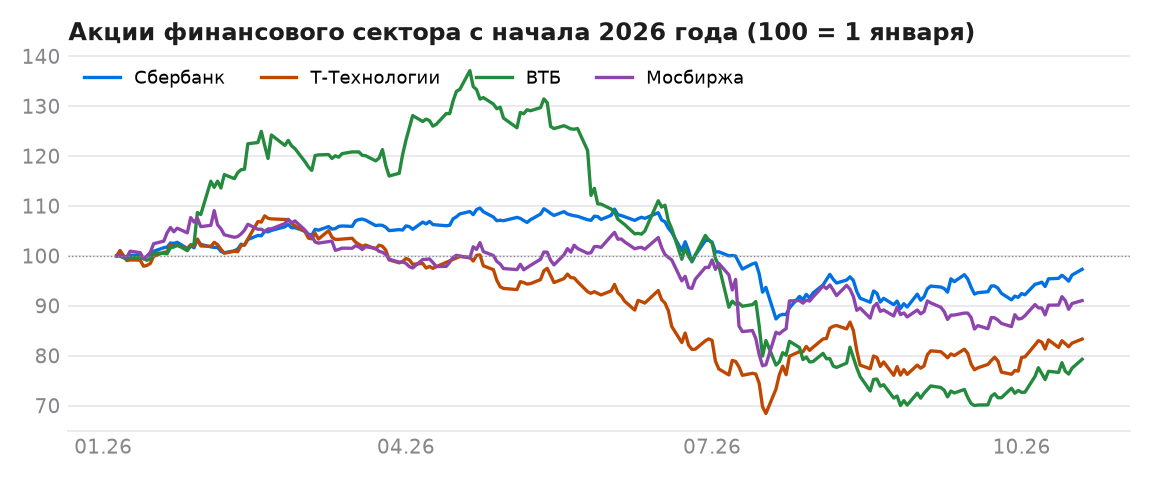
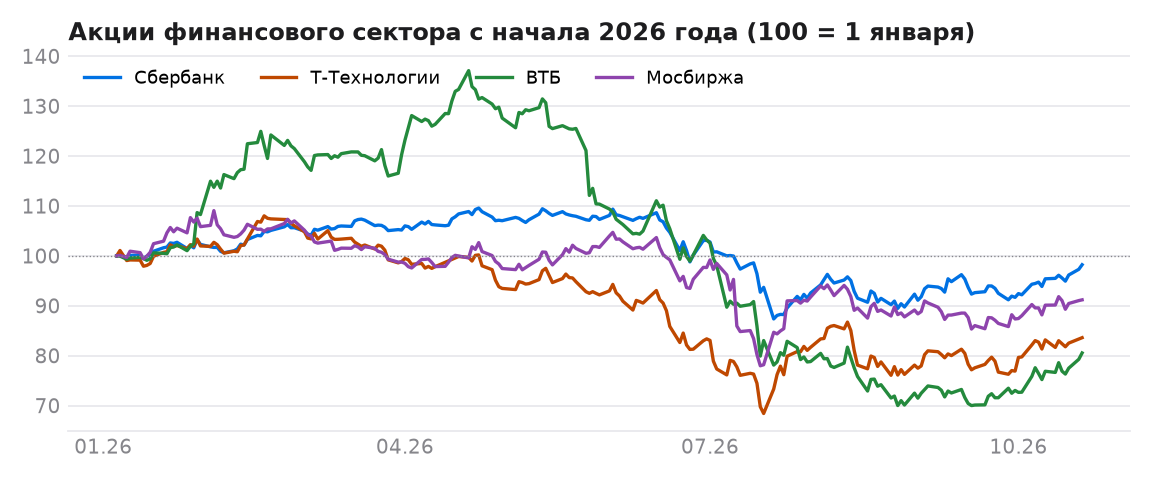
data: обновление 2026-10-20

diff --git a/README.md b/README.md
@@ -7,17 +7,17 @@
 Руками здесь ничего не обновляется: таблица и графики ниже собраны роботом.
 
 <!-- PULSE:START -->
-*Последние торги: 19.10.2026. Обновляется автоматически каждую ночь.*
+*Последние торги: 20.10.2026. Обновляется автоматически каждую ночь.*
 
 | | Значение | За день | За месяц | С начала года |
 |---|---:|---:|---:|---:|
-| Индекс МосБиржи | 2 455 | +1,0% | +7,8% | −11,3% |
-| Индекс гособлигаций RGBI | 111,70 | +0,0% | −1,0% | −5,4% |
-| Юань | 12,42 ₽ | −0,3% | −1,3% | +10,6% |
-| Сбербанк | 290,70 ₽ | +1,2% | +5,0% | −3,1% |
-| Т-Технологии | 272,20 ₽ | +1,0% | +7,4% | −17,0% |
-| ВТБ | 56,72 ₽ | +2,3% | +13,1% | −21,5% |
-| Мосбиржа | 156,50 ₽ | +0,6% | +5,8% | −9,7% |
+| Индекс МосБиржи | 2 472 | +0,7% | +8,5% | −10,6% |
+| Индекс гособлигаций RGBI | 111,68 | −0,0% | −1,1% | −5,4% |
+| Юань | 12,35 ₽ | −0,6% | −1,9% | +9,9% |
+| Сбербанк | 293,45 ₽ | +0,9% | +6,0% | −2,2% |
+| Т-Технологии | 273,12 ₽ | +0,3% | +7,8% | −16,7% |
+| ВТБ | 57,62 ₽ | +1,6% | +14,9% | −20,2% |
+| Мосбиржа | 156,76 ₽ | +0,2% | +6,0% | −9,5% |
 
 Цены акций скорректированы на корпоративные события: Т-Технологии — сплит 10:1 (17.04.2026); ВТБ — консолидация 1:5000 (15.07.2024).
 
